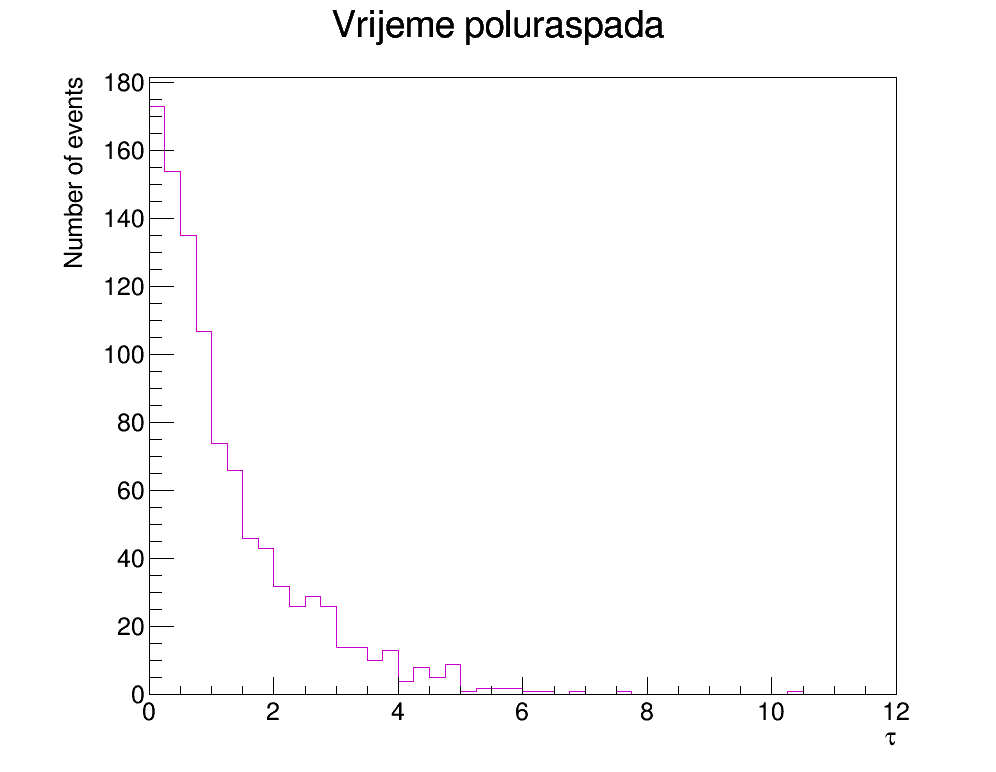
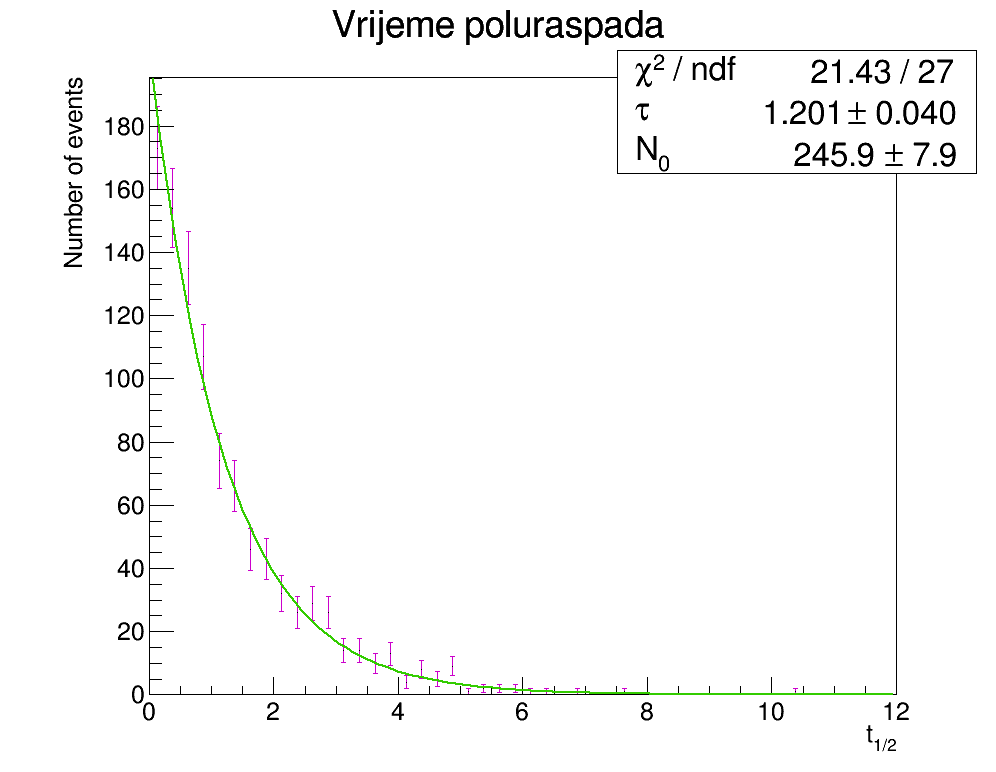
Zad 1 dovrsen

diff --git a/Vjezbe_9/Analyzer.cpp b/Vjezbe_9/Analyzer.cpp
@@ -26,7 +26,16 @@ void Analyzer::PlotHistogram()
     h_t->GetXaxis()->SetTitle("t_{1/2}");
     h_t->GetYaxis()->SetTitle("Number of events");
     h_t->SetLineColor(kMagenta+1);
-    h_t->Draw("hist");
+    h_t->Draw("E1 X0");
+
+    TF1 *fja = new TF1("fja", "1./[0]*[1]*exp(-x/[0])", 0., 12.);
+    fja->SetParNames("#tau", "N_{0}");
+    fja->SetParameters(5., 1000.);
+    fja->SetLineColor(kSpring-1);
+
+    h_t->Fit(fja);
+
+    fja->Draw("same");
 
     c->SaveAs("poluraspad.png");
 }

diff --git a/Vjezbe_9/Analyzer.h b/Vjezbe_9/Analyzer.h
@@ -14,6 +14,7 @@
 #include <TH2.h>
 #include <TStyle.h>
 #include <TCanvas.h>
+#include <TF1.h>
 
 // Header file for the classes stored in the TTree if any.
 
